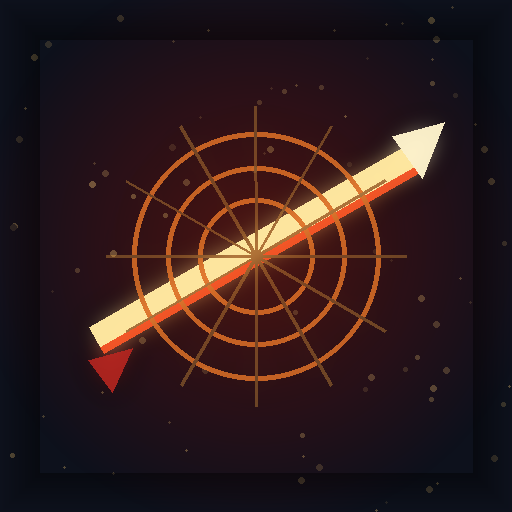
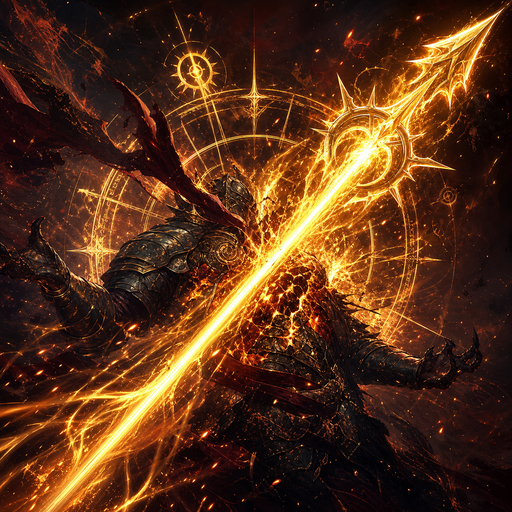
Tune SunExp burst balance

diff --git a/README.md b/README.md
@@ -1,0 +1,38 @@
+# SunExp / 日耀聚能
+
+作者 / Author: Aura
+
+SunExp is a card pack mod for Witch's Apocalyptic Journey. It adds 21 high-risk burst cards and 7 Solar relics built around Solar Radiance, Gathered Flame, battlefield-wide Burn, and Crown Manifestation. Crown Manifestation turns the pack's largest burst into a safer payoff window, while forcing the blast outside that window can backfire hard. The mod is made from CSV, text, and image resources, with no DLL hook included.
+
+《日耀聚能》是一个以 CSV、文本和图片资源为主的卡包 Mod，新增 21 张高风险高爆发卡牌与 7 件日耀遗物，可与官方卡包混合游玩。它围绕日耀、聚炎、全场灼烧和圣冕显化构筑，鼓励玩家先制造热量，再把热量转化为爆发。圣冕显化能让最大的爆发进入更安全的兑现窗口，若强行在圣冕外引爆，则可能遭受猛烈反噬。
+
+## 内容 / Contents
+
+- 新卡包：日耀聚能 / Solar Charge
+- 21 张通用卡牌 / 21 general cards
+- 7 件日耀遗物 / 7 Solar relics
+- 核心状态：日耀、聚炎、日耀场 / Solar Radiance, Gathered Flame, Solar Field
+- 爆发窗口：圣冕显化、冕核爆闪 / Crown Manifestation, Crown-Core Flash
+- 纯数据 Mod，不包含 DLL Hook / Pure data mod, no DLL hook
+
+## 玩法 / Gameplay
+
+用日耀建立基础收益，用日耀场和卡牌给全场制造灼烧，再通过引炎、灼流回收等手段把灼烧吸收为聚炎。聚炎可以继续推高输出，但也会在回合开始时带来自燃压力；避灼光幕、圣冕显化高层阶段和部分遗物可以帮助你控制风险。冕核爆闪不再焚毁，但若没有圣冕显化，玩家会承受与敌人相同的爆发伤害。
+
+Build Solar Radiance for baseline value, spread Burn through Solar Field and cards, then absorb that Burn into Gathered Flame with cards such as Draw Flame and Flare Reclaim. Gathered Flame can fuel large attacks, but it also creates self-burn pressure at round start, so Burn Ward, high Crown phases, and relic support are important. Crown-Core Flash no longer Burns out, but using it without Crown Manifestation makes you take the same burst damage as the enemies.
+
+## 使用 / Usage
+
+在游戏的卡包选择界面启用“日耀聚能 / Solar Charge”后，这 21 张卡会像官方卡包一样进入奖励与获取池。遗物也归属于本卡包，可在卡包详情中查看。
+
+Enable "日耀聚能 / Solar Charge" in the in-game card pack selection screen. The 21 cards enter the reward pool like official card packs, and the relics are attached to this mod pack.
+
+## 作者声明 / Author Note
+
+作者：Aura。
+
+本 Mod 使用 Codex 辅助开发，包括卡牌设计、数值调整、CSV 数据整理、图片资源制作、测试排查和发布文档整理。当前版本仍在继续打磨，欢迎反馈数值强度、文本表述、卡面表现和兼容性问题。
+
+Created by Aura.
+
+This mod was developed with assistance from Codex, including card design, balance tuning, CSV setup, image asset creation, testing notes, troubleshooting, and release documentation. The current version is still being polished; feedback on balance, wording, card art, and compatibility is welcome.

diff --git a/WorkshopDescription_zh-en.md b/WorkshopDescription_zh-en.md
@@ -1,0 +1,47 @@
+# SunExp / 日耀聚能
+
+## 中文
+
+《日耀聚能》是一个围绕 **日耀**、**聚炎** 与 **圣冕显化** 构筑的高风险爆发卡包，新增 **21 张**可混入官方奖励池的卡牌，以及 **7 件**日耀主题遗物。
+
+这套牌的核心思路是先把战场点燃，再把灼烧吸收为聚炎，最后用圣冕显化把爆发变成更安全的兑现窗口。它会主动制造全场灼烧，也会让玩家承受一定自燃压力；冕核爆闪可以在圣冕外强行引爆，但玩家也会承受相同伤害，因此需要用避灼光幕、遗物和圣冕高层阶段来控制风险。
+
+整体强度偏向进攻和爆发，适合喜欢规划资源、承担代价并在关键回合打出高额输出的玩家。当前版本仍在继续打磨，数值可能会根据反馈继续调整。
+
+### 内容
+
+- 新卡包：日耀聚能
+- 21 张通用卡牌
+- 7 件日耀主题遗物
+- 核心机制：日耀、聚炎、日耀场、灼烧
+- 爆发窗口：圣冕显化、冕核爆闪
+- 纯数据 Mod，不包含 DLL Hook
+
+### 使用方式
+
+在游戏的卡包选择界面启用 **日耀聚能** 后，这 21 张卡会像官方卡包一样进入奖励 / 获取池。遗物也归属于本卡包，可以在卡包详情中查看。
+
+
+
+## English
+
+## SunExp / Solar Charge
+
+SunExp is a high-risk burst card pack built around **Solar Radiance**, **Gathered Flame**, and **Crown Manifestation**. It adds **21 cards** that can be mixed into the official reward pool, along with **7 Solar relics**.
+
+The core loop is to ignite the battlefield, absorb Burn into Gathered Flame, then use Crown Manifestation as the safer window for cashing that stored heat out. Crown-Core Flash can still be forced outside Crown Manifestation, but you take the same burst damage as the enemies, so managing self-burn through Burn Ward, relics, and high Crown phases is part of the intended play pattern.
+
+Its power level leans toward offense and burst. It is designed for players who enjoy planning resources, accepting risk, and setting up decisive high-damage turns. The current version is still being polished, and balance may change based on feedback.
+
+### Contents
+
+- New card pack: Solar Charge
+- 21 general-purpose cards
+- 7 Solar relics
+- Core mechanics: Solar Radiance, Gathered Flame, Solar Field, Burn
+- Burst window: Crown Manifestation, Crown-Core Flash
+- Pure data mod, no DLL hook included
+
+### How to Use
+
+Enable **SunExp / 日耀聚能** in the in-game card pack selection screen. The 21 cards will then enter the reward and acquisition pool like official card packs. The relics also belong to this pack and can be viewed in the pack details.
